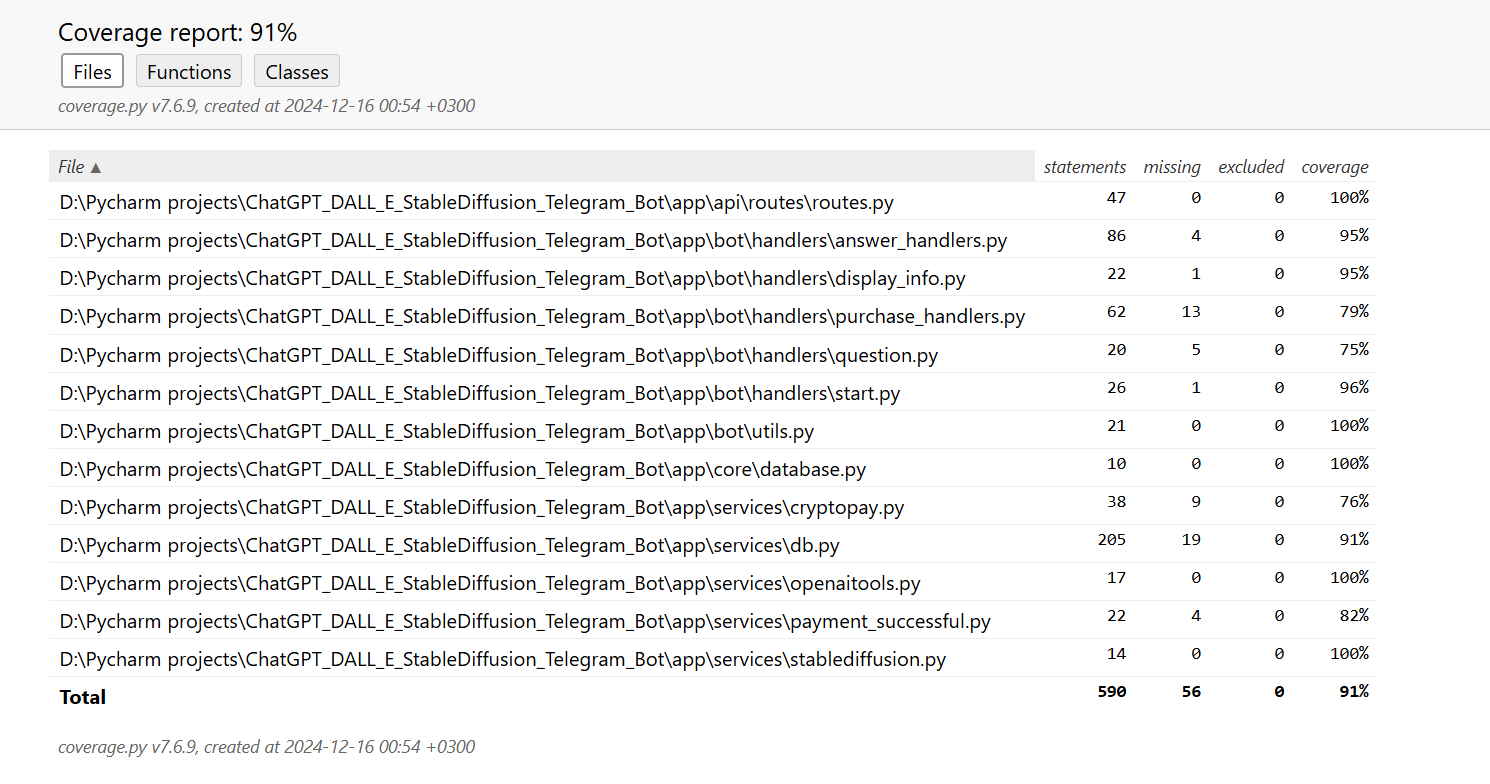
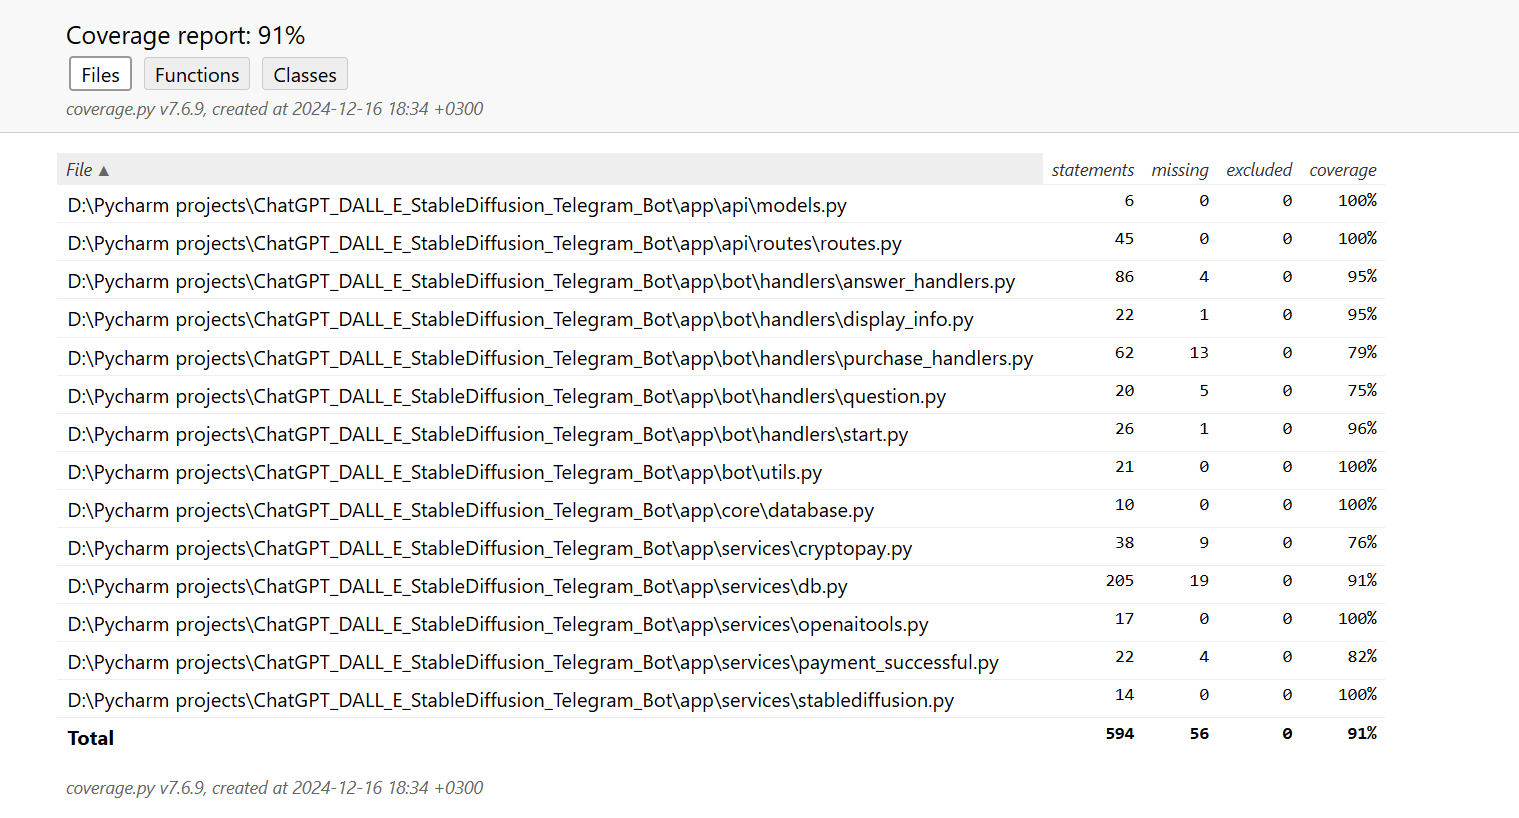
fix

diff --git a/app/api/routes/routes.py b/app/api/routes/routes.py
@@ -1,7 +1,9 @@
 from aiogram import Bot, Dispatcher, types
 from fastapi import Request
 from fastapi.responses import PlainTextResponse, JSONResponse
+from pydantic import ValidationError
 
+from app.api.models import PaymentsRequestModel
 from app.bot.utils import TelegramError
 from app.services.cryptopay import CryptoPayError
 from app.services.db import DataBase, DatabaseError
@@ -16,17 +18,11 @@ class Handlers:
 
     async def payments_webhook(self, request: Request) -> PlainTextResponse:
         try:
-            data = await request.json()
-            if 'update_type' not in data or 'payload' not in data or 'invoice_id' not in data['payload']:
-                return PlainTextResponse('Wrong request', status_code=400)
-            update_type = data['update_type']
-            invoice = data['payload']
-            try:
-                invoice_id = int(invoice['invoice_id'])
-            except ValueError:
-                return PlainTextResponse('Wrong invoice_id', status_code=400)
-            await payment_success(self.bot, self.database, update_type, invoice_id)
+            validated_data = PaymentsRequestModel(** await request.json())
+            await payment_success(self.bot, self.database, validated_data.update_type, validated_data.payload.invoice_id)
             return PlainTextResponse('OK', status_code=200)
+        except ValidationError:
+            return PlainTextResponse('Wrong request', status_code=400)
         except DatabaseError:
             return PlainTextResponse('Database Error', status_code=500)
         except TelegramError:
@@ -40,6 +36,8 @@ class Handlers:
             update = types.Update(**await request.json())
             await self.dp.feed_webhook_update(self.bot, update)
             return JSONResponse(content={"status": "ok"})
+        except ValueError:
+            return JSONResponse(content={"message": "Wrong request"}, status_code=400)
         except DatabaseError:
             return JSONResponse(content={"message": "database error"}, status_code=500)
         except CryptoPayError:

diff --git a/tests/api/test_routes.py b/tests/api/test_routes.py
@@ -46,22 +46,6 @@ class TestPaymentsWebhookHandler:
         assert response.body.decode('utf-8') == "Wrong request"
         assert response.status_code == 400
 
-    @pytest.mark.asyncio
-    async def test_payments_webhook_wrong_id_error(self):
-
-        mock_request = AsyncMock(spec=Request)
-        mock_request.json.return_value = {"update_type": "invoice_paid", "payload": {"invoice_id": "dsfsfddsf"}}
-
-        mock_bot = AsyncMock()
-        mock_db = AsyncMock()
-
-        handler = Handlers(mock_db, AsyncMock(), mock_bot)
-
-        response = await handler.payments_webhook(mock_request)
-
-        assert response.body.decode('utf-8') == "Wrong invoice_id"
-        assert response.status_code == 400
-
     @patch('app.api.routes.routes.payment_success', new_callable=AsyncMock)
     @pytest.mark.asyncio
     async def test_payments_webhook_database_error(self, mock_payment_success):
@@ -142,6 +126,20 @@ class TestBotWebhookHandler:
         assert json.loads(response.body.decode('utf-8')) == {"status": "ok"}
         mock_dp.feed_webhook_update.assert_awaited_once_with(mock_bot, types.Update(update_id=12345))
 
+    @pytest.mark.asyncio
+    async def test_bot_webhook_request_error(self):
+        mock_request = AsyncMock(spec=Request)
+        mock_request.json.return_value = {}
+
+        mock_dp = AsyncMock()
+        mock_bot = AsyncMock()
+
+        handler = Handlers(AsyncMock(), mock_dp, mock_bot)
+
+        response = await handler.bot_webhook(mock_request)
+
+        assert response.status_code == 400
+        assert json.loads(response.body.decode('utf-8')) == {"message": "Wrong request"}
 
     @pytest.mark.asyncio
     async def test_bot_webhook_database_error(self):

diff --git a/app/api/models.py b/app/api/models.py
@@ -1,0 +1,8 @@
+from pydantic import BaseModel
+
+class InvoicePayload(BaseModel):
+    invoice_id: int
+
+class PaymentsRequestModel(BaseModel):
+    update_type: str
+    payload: InvoicePayload
